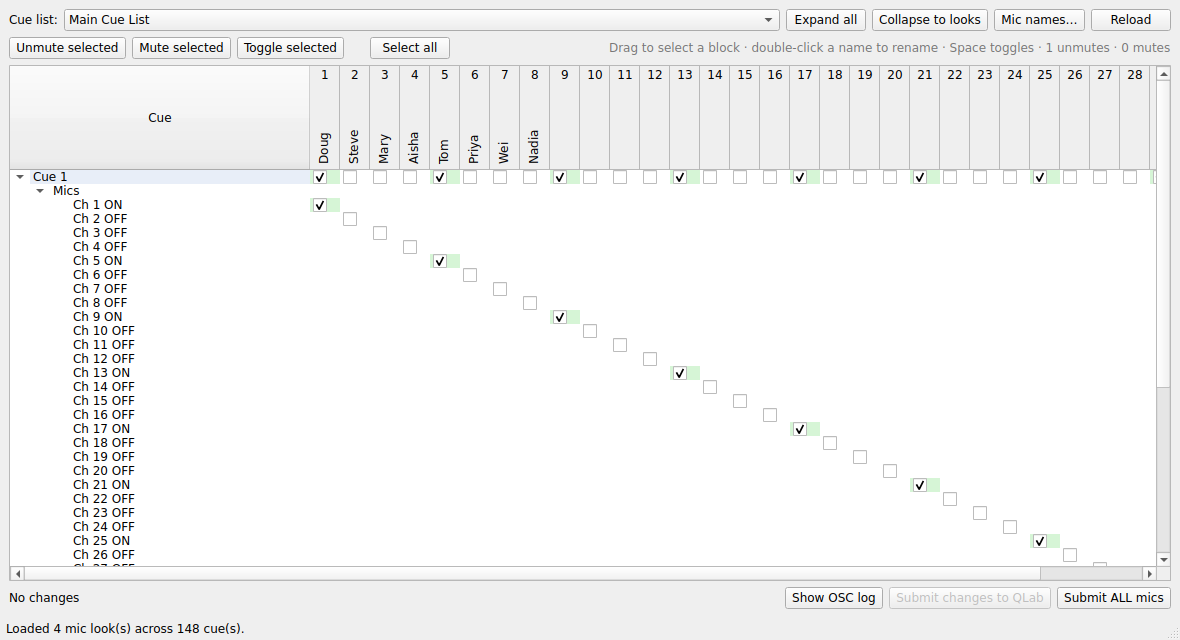
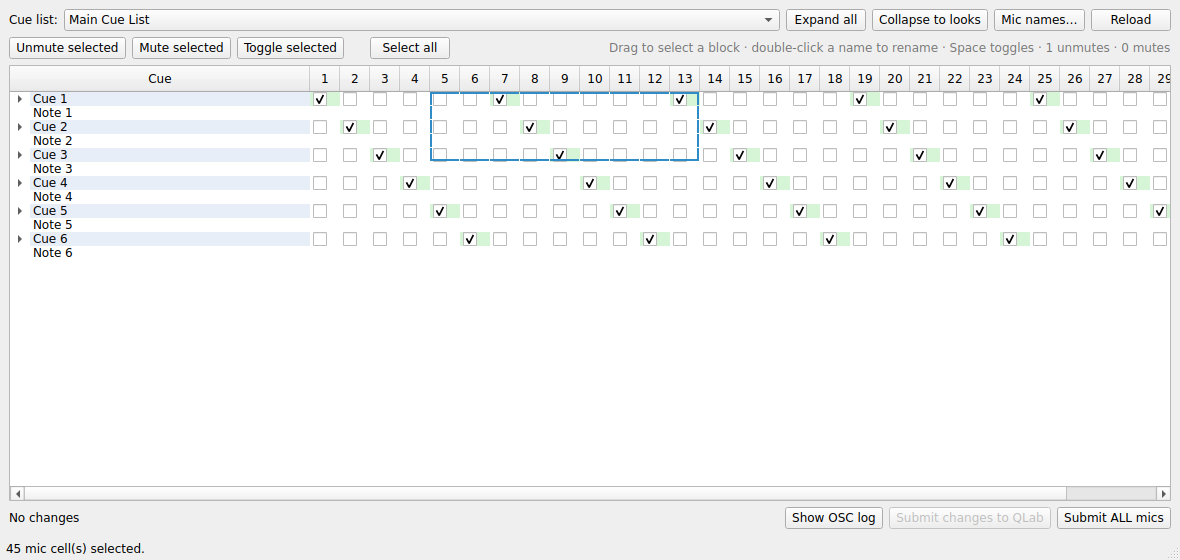
Show cell selection as an outline instead of a solid fill
The default solid highlight hid the checkboxes under a dark blue block. A
custom item delegate now paints each cell normally (checkbox + background) and
strokes the selection colour only along the outer edge of the selected region,
so a dragged block reads as a clean outlined rectangle with checkmarks visible.

https://claude.ai/code/session_01NVpmYubyTSsqskdD8Afh39

diff --git a/qlabflash/gui/selection_delegate.py b/qlabflash/gui/selection_delegate.py
@@ -1,0 +1,64 @@
+"""Item delegate that shows selection as an outline instead of a solid fill.
+
+The default view selection paints a solid highlight over each selected cell,
+which hides the checkbox underneath. This delegate paints every cell normally
+(background, checkbox, text — no highlight fill) and then strokes a coloured
+border along the *outer* edge of the selected block, so a dragged selection
+reads as a clean outlined rectangle with the checkmarks still visible.
+"""
+
+from __future__ import annotations
+
+from PySide6.QtCore import QModelIndex, Qt
+from PySide6.QtGui import QPen
+from PySide6.QtWidgets import QStyle, QStyledItemDelegate, QStyleOptionViewItem
+
+
+class SelectionOutlineDelegate(QStyledItemDelegate):
+    OUTLINE_WIDTH = 2
+
+    def paint(self, painter, option, index):
+        selected = bool(option.state & QStyle.State_Selected)
+
+        # Paint the cell as if it were not selected, so the checkbox and our
+        # amber/green backgrounds remain fully visible.
+        opt = QStyleOptionViewItem(option)
+        self.initStyleOption(opt, index)
+        opt.state = option.state & ~QStyle.State_Selected
+        super().paint(painter, opt, index)
+
+        if not selected:
+            return
+
+        view = option.widget
+        sm = view.selectionModel() if view is not None else None
+
+        def is_selected(other: QModelIndex) -> bool:
+            return bool(sm and other.isValid() and sm.isSelected(other))
+
+        col = index.column()
+        left = index.sibling(index.row(), col - 1) if col > 0 else QModelIndex()
+        right = index.sibling(index.row(), col + 1)
+        above = below = QModelIndex()
+        if view is not None:
+            a = view.indexAbove(index)
+            b = view.indexBelow(index)
+            above = a.sibling(a.row(), col) if a.isValid() else a
+            below = b.sibling(b.row(), col) if b.isValid() else b
+
+        pen = QPen(option.palette.highlight().color(), self.OUTLINE_WIDTH)
+        painter.save()
+        painter.setPen(pen)
+        # Inset by half the pen width so the stroke stays inside the cell.
+        r = option.rect.adjusted(1, 1, -1, -1)
+        # Only draw an edge where the neighbour in that direction isn't selected,
+        # which yields a single outline around a contiguous block.
+        if not is_selected(left):
+            painter.drawLine(r.topLeft(), r.bottomLeft())
+        if not is_selected(right):
+            painter.drawLine(r.topRight(), r.bottomRight())
+        if not is_selected(above):
+            painter.drawLine(r.topLeft(), r.topRight())
+        if not is_selected(below):
+            painter.drawLine(r.bottomLeft(), r.bottomRight())
+        painter.restore()

diff --git a/qlabflash/gui/tree_view.py b/qlabflash/gui/tree_view.py
@@ -13,6 +13,8 @@ from __future__ import annotations
 from PySide6.QtCore import Qt, Signal
 from PySide6.QtWidgets import QAbstractItemView, QMenu, QTreeView
 
+from .selection_delegate import SelectionOutlineDelegate
+
 
 class CueTreeView(QTreeView):
     selectionChangedCount = Signal(int)
@@ -21,6 +23,7 @@ class CueTreeView(QTreeView):
         super().__init__(parent)
         self.setSelectionMode(QAbstractItemView.ExtendedSelection)
         self.setSelectionBehavior(QAbstractItemView.SelectItems)
+        self.setItemDelegate(SelectionOutlineDelegate(self))
         self.setUniformRowHeights(True)
         self.setAllColumnsShowFocus(True)
         self.setExpandsOnDoubleClick(False)  # double-click edits the name instead
